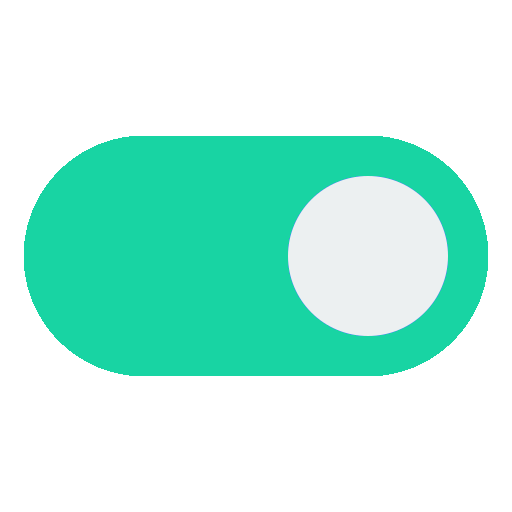
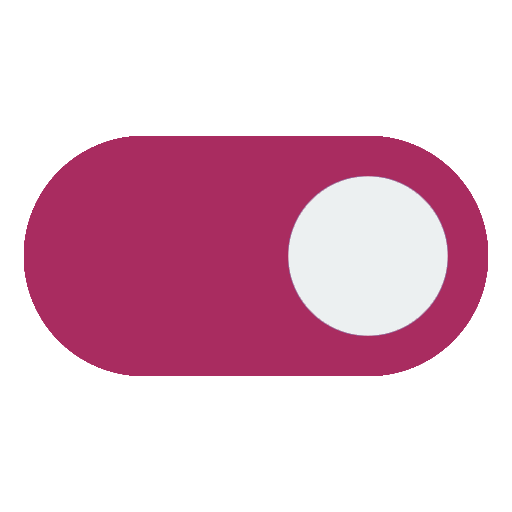
styles actualizated

diff --git a/src/scripts.ts b/src/scripts.ts
@@ -67,6 +67,33 @@ function printCalendar(): void {
       dayBox.classList.add("active");
     }
 
+    // //testing localStorage Fetch
+    // const previousEvents = localStorage.getItem("events");
+    // const allEvents: Event[] = previousEvents ? JSON.parse(previousEvents) : [];
+
+    // //iterar atravé de los eventos para encontrar eventos del dia actual
+    // const eventsForDay = allEvents.filter(
+    //   (evnt) => {
+    //   evnt.initialDate.getDate() === i &&
+    //   evnt.initialDate.getMonth() === currentMonth &&
+    //   evnt.initialDate.getFullYear() === currentYear
+    //   });
+
+    // //Display event if day exists
+    // if (eventsForDay.length > 0) {
+    //   const eventsContainer = document.createElement("div");
+    //   eventsContainer.classList.add("events-container");
+
+    //   eventsForDay.forEach((evnt) => {
+    //     const eventElement = document.createElement("p");
+    //     eventElement.textContent = evnt.title;
+    //     eventsContainer.appendChild(eventElement);
+    //   });
+
+    //   dayBox.innerHTML = eventsContainer.outerHTML;
+
+    // }
+
     //PRUEBA DE CREAR EL BUTTON DINAMICAMENTE
     const addTaskButton = document.createElement("button");
     addTaskButton.innerHTML = "+";
@@ -286,60 +313,28 @@ window.addEventListener("load", () => {
 function darkModeSwitcher() {
   const body = document.body;
   body.classList.toggle("dark-mode");
-
-  const headers = document.getElementsByClassName("header");
-  for (let i = 0; i < headers.length; i++) {
-    headers[i].classList.toggle("dark-mode");
-  }
-
-  const h1Elements = document.querySelectorAll(".header__date--today-month");
-  h1Elements.forEach((element) => {
-    element.classList.toggle("h1-dark-mode");
-  });
-
-  const h2Elements = document.querySelectorAll(".header__date--today-day");
-  h2Elements.forEach((element) => {
-    element.classList.toggle("h2-dark-mode");
-  });
-
-  const h3Elements = document.querySelectorAll(
-    ".header__date--year-and-btn--year"
-  );
-  h3Elements.forEach((h3) => {
-    h3.classList.toggle("h3-dark-mode");
-
-    const calendarBtn = document.querySelectorAll(
-      ".header__date--year-and-btn--btn"
-    );
-    calendarBtn.forEach((element) => {
-      element.classList.toggle("calendar-btn-dark-mode");
-    });
-
-    const monthBtn = document.querySelectorAll(".month-btn");
-    monthBtn.forEach((element) => {
-      element.classList.toggle("month-btn-dark-mode");
-    });
-  });
 }
 
 // Dark Mode Button
 
-const img = document.querySelector("#icon") as HTMLImageElement;
+const addEventBtnImg = document.getElementById(
+  "button-off"
+) as HTMLImageElement;
 let newSrc = "assets/button-on.png";
 
 function onImageClick(event: MouseEvent) {
   const target = event.target as HTMLImageElement;
-  target.src = newSrc;
-  if (newSrc == "assets/button-on.png") {
-    newSrc = "assets/button-off.png";
-  } else {
-    newSrc = "assets/button-on.png";
+  if (target) {
+    target.src = newSrc;
+    if (newSrc == "assets/button-on.png") {
+      newSrc = "assets/button-off.png";
+    } else {
+      newSrc = "assets/button-on.png";
+    }
   }
 }
 
-if (img) {
-  img.addEventListener("click", onImageClick);
-}
+addEventBtnImg.addEventListener("click", onImageClick);
 
 // Show and hide modal's children
 

diff --git a/css/main.css b/css/main.css
@@ -3,6 +3,7 @@
   padding: 0;
   font-family: "Montserrat", sans-serif;
   font-weight: 600;
+  color: var(--text-color);
 }
 
 /* this is a text that must be stay here later */
@@ -10,7 +11,7 @@
 /* ---HEADER--- */
 
 header {
-  background-color: white;
+  background-color: var(--second-background-color);
   padding: 0 1rem 1rem 1rem;
   height: 13rem;
   border-bottom: solid 0.06rem var(--secondary-color);
@@ -26,7 +27,7 @@ header {
 .header__date--today-month {
   font-size: 5rem;
   color: var(--secondary-color);
-  margin-top: -9rem; 
+  margin-top: -9rem;
 }
 
 .header__date--today-day {
@@ -43,27 +44,11 @@ header {
   cursor: pointer;
 } */
 
-
-
-.header__date--year-and-btn--year {
-  font-size: 7.4rem;
-  color: var(--primary-color);
-  margin-bottom: -1rem;
-}
-
-
-
-.header__date--year-and-btn--year {
-  font-size: 7.4rem;
-  color: var(--primary-color);
-  margin-bottom: -1rem;
-}
-
 .switch {
   /* dark mode button */
-  margin: 0;
-  padding: 0;
-  background: none;
+  /* margin: 0;
+  padding: 0; */
+  /* background: none; */
   /* height: 2rem; */
   border: 0;
   /* margin-right: 0.5rem; */
@@ -75,13 +60,21 @@ img {
   cursor: pointer;
 }
 
+.header__date--year-and-btn--year {
+  font-size: 7.4rem;
+  color: var(--primary-color);
+  margin-top: 0rem;
+  margin-bottom: -1rem;
+}
+
 .header__date--year-and-btn {
   text-align: right;
 }
 
 .header__date--year-and-btn--btn {
-  background-color: white;
+  background-color: var(--second-background-color);
   border: 0;
+  margin-top: -1rem;
 }
 
 .header__date--year-and-btn--btn:hover {
@@ -154,14 +147,31 @@ main p {
   padding: 0.2rem;
   border-radius: 5px;
   text-align: right;
-  background-color: white;
+  background-color: var(--second-background-color);
   font-weight: 200;
+  position: relative;
+}
+
+.add-btn {
+  cursor: pointer;
+  color: white;
+  background-color: var(--primary-color);
+  border: 0;
+  font-size: 1.5rem;
+  padding: 0 0.5rem 0 0.5rem;
+  font-weight: 800;
+  /* padding-inline: 0.2rem; */
+  margin-left: 0.2rem;
+  border-radius: 5px;
+  position: absolute;
+  bottom: 0.4rem;
+  right: 0.4rem;
 }
 
 .main__container-days--dynamic-day:hover {
   transition: all 0.3s ease;
-  /* background-color: var(--background-color);
-  color: white; */
+  background-color: var(--background-color);
+  /*color: white; */
   box-shadow: 0 0 10px rgba(0, 0, 0, 0.3);
 }
 
@@ -170,7 +180,7 @@ main p {
   box-shadow: 0 0 0.25rem rgba(0, 0, 0, 0.1);
   color: var(--primary-color);
   /* background-color: #f5f3f4; */
-  background-color: #e3f2fd;
+  background-color: var(--active-color);
   font-weight: 600;
 }
 
@@ -183,16 +193,7 @@ main p {
   text-align: center;
 }
 
-.add-btn {
-  cursor: pointer;
-  color: white;
-  background-color: var(--primary-color);
-  border: 0;
-  font-weight: 800;
-  padding-inline: 0.2rem;
-  margin-left: 0.2rem;
-  border-radius: 5px;
-}
+
 
 /* Dark Mode Button */
 
@@ -212,8 +213,11 @@ main p {
   /* margin-right: 0.5rem; */
 }
 
-img {
-  /* switch image button */
-  width: 3rem;
+.header__date--year-and-btn--btn {
+  background: none;
+}
+
+.header__date--year-and-btn--btn--img {
+  width: 2.5rem;
   cursor: pointer;
 }

diff --git a/dist/scripts.js b/dist/scripts.js
@@ -181,46 +181,22 @@ window.addEventListener("load", () => {
 function darkModeSwitcher() {
     const body = document.body;
     body.classList.toggle("dark-mode");
-    const headers = document.getElementsByClassName("header");
-    for (let i = 0; i < headers.length; i++) {
-        headers[i].classList.toggle("dark-mode");
-    }
-    const h1Elements = document.querySelectorAll(".header__date--today-month");
-    h1Elements.forEach((element) => {
-        element.classList.toggle("h1-dark-mode");
-    });
-    const h2Elements = document.querySelectorAll(".header__date--today-day");
-    h2Elements.forEach((element) => {
-        element.classList.toggle("h2-dark-mode");
-    });
-    const h3Elements = document.querySelectorAll(".header__date--year-and-btn--year");
-    h3Elements.forEach((h3) => {
-        h3.classList.toggle("h3-dark-mode");
-        const calendarBtn = document.querySelectorAll(".header__date--year-and-btn--btn");
-        calendarBtn.forEach((element) => {
-            element.classList.toggle("calendar-btn-dark-mode");
-        });
-        const monthBtn = document.querySelectorAll(".month-btn");
-        monthBtn.forEach((element) => {
-            element.classList.toggle("month-btn-dark-mode");
-        });
-    });
 }
-const img = document.querySelector("#icon");
+const addEventBtnImg = document.getElementById("button-off");
 let newSrc = "assets/button-on.png";
 function onImageClick(event) {
     const target = event.target;
-    target.src = newSrc;
-    if (newSrc == "assets/button-on.png") {
-        newSrc = "assets/button-off.png";
-    }
-    else {
-        newSrc = "assets/button-on.png";
+    if (target) {
+        target.src = newSrc;
+        if (newSrc == "assets/button-on.png") {
+            newSrc = "assets/button-off.png";
+        }
+        else {
+            newSrc = "assets/button-on.png";
+        }
     }
 }
-if (img) {
-    img.addEventListener("click", onImageClick);
-}
+addEventBtnImg.addEventListener("click", onImageClick);
 const ShowEndDate = () => {
     eventModalEndDate.classList.remove("hide");
 };

diff --git a/css/darkmode.css b/css/darkmode.css
@@ -1,43 +1,12 @@
 /* Dark Mode Variables */
 .dark-mode {
-    --primary-color: #18363E;
-    --secondary-color: #31aad2;
-    --tertiary-color: #0079a1;
-    --background-color: #46484F;
-    --text-color: #FFFFFF;
-    --border-color: #626567;
-  }
-
-  .dark-mode p {
-    color: var(--text-color);
-  }
-  
-  header.dark-mode {
-    background-color: var(--primary-color);
-    padding: 1rem;
-    height: 13rem;
-    border-bottom: solid 0.06rem var(--secondary-color);
-  }
-
-  .header.dark-mode .h1-dark-mode {
-    color: var(--secondary-color);
-  }
-
-  .header.dark-mode .h2-dark-mode {
-    color: var(--tertiary-color);
-  }
-
-  .header.dark-mode .h3-dark-mode {
-    color: var(--tertiary-color);
-  }
-
-  .header.dark-mode .calendar-btn-dark-mode {
-    background-color: var(--primary-color);
-  }
-
-  .header.dark-mode .month-btn-dark-mode {
-    background-color: var(--secondary-color);
-  }
-
-
-  
+  --primary-color: #ffffff;
+  --secondary-color: #c7286b;
+  --tertiary-color: #0079a1;
+  --header-bg-color: #292a2f;
+  --background-color: #6f7175;
+  --second-background-color: #9b9b9b;
+  --text-color: #ffffff;
+  --border-color: #626567;
+  --active-color: #fee2ee;
+}

diff --git a/css/colors.css b/css/colors.css
@@ -1,11 +1,10 @@
 :root {
   --primary-color: #31aad2;
-  --dark-primary-color:#18363E;
   --secondary-color: #0079a1;
-  --dark-secondary-color: #31aad2;
   --tertiary-color: #126ea0;
-  --dark-tertiary-color: #0079a1;
   --background-color: #f4f4f4;
-  --dark-background-color: #46484F;
+  --second-background-color: #ffffff;
+  --text-color: #000000;
   --border-color: #cfcfcf;
+  --active-color: #e3f2fd;
 }

diff --git a/index.html b/index.html
@@ -27,7 +27,7 @@
             <img id="button-off" src="assets/button-off.png" />
           </button>
           <button class="header__date--year-and-btn--btn" id="event-btn">
-            <img src="assets/add-event.svg" height="40rem" />
+            <img src="assets/addevent.png" height="40rem" class="header__date--year-and-btn--btn--img" />
           </button>
         </div>
       </section>
